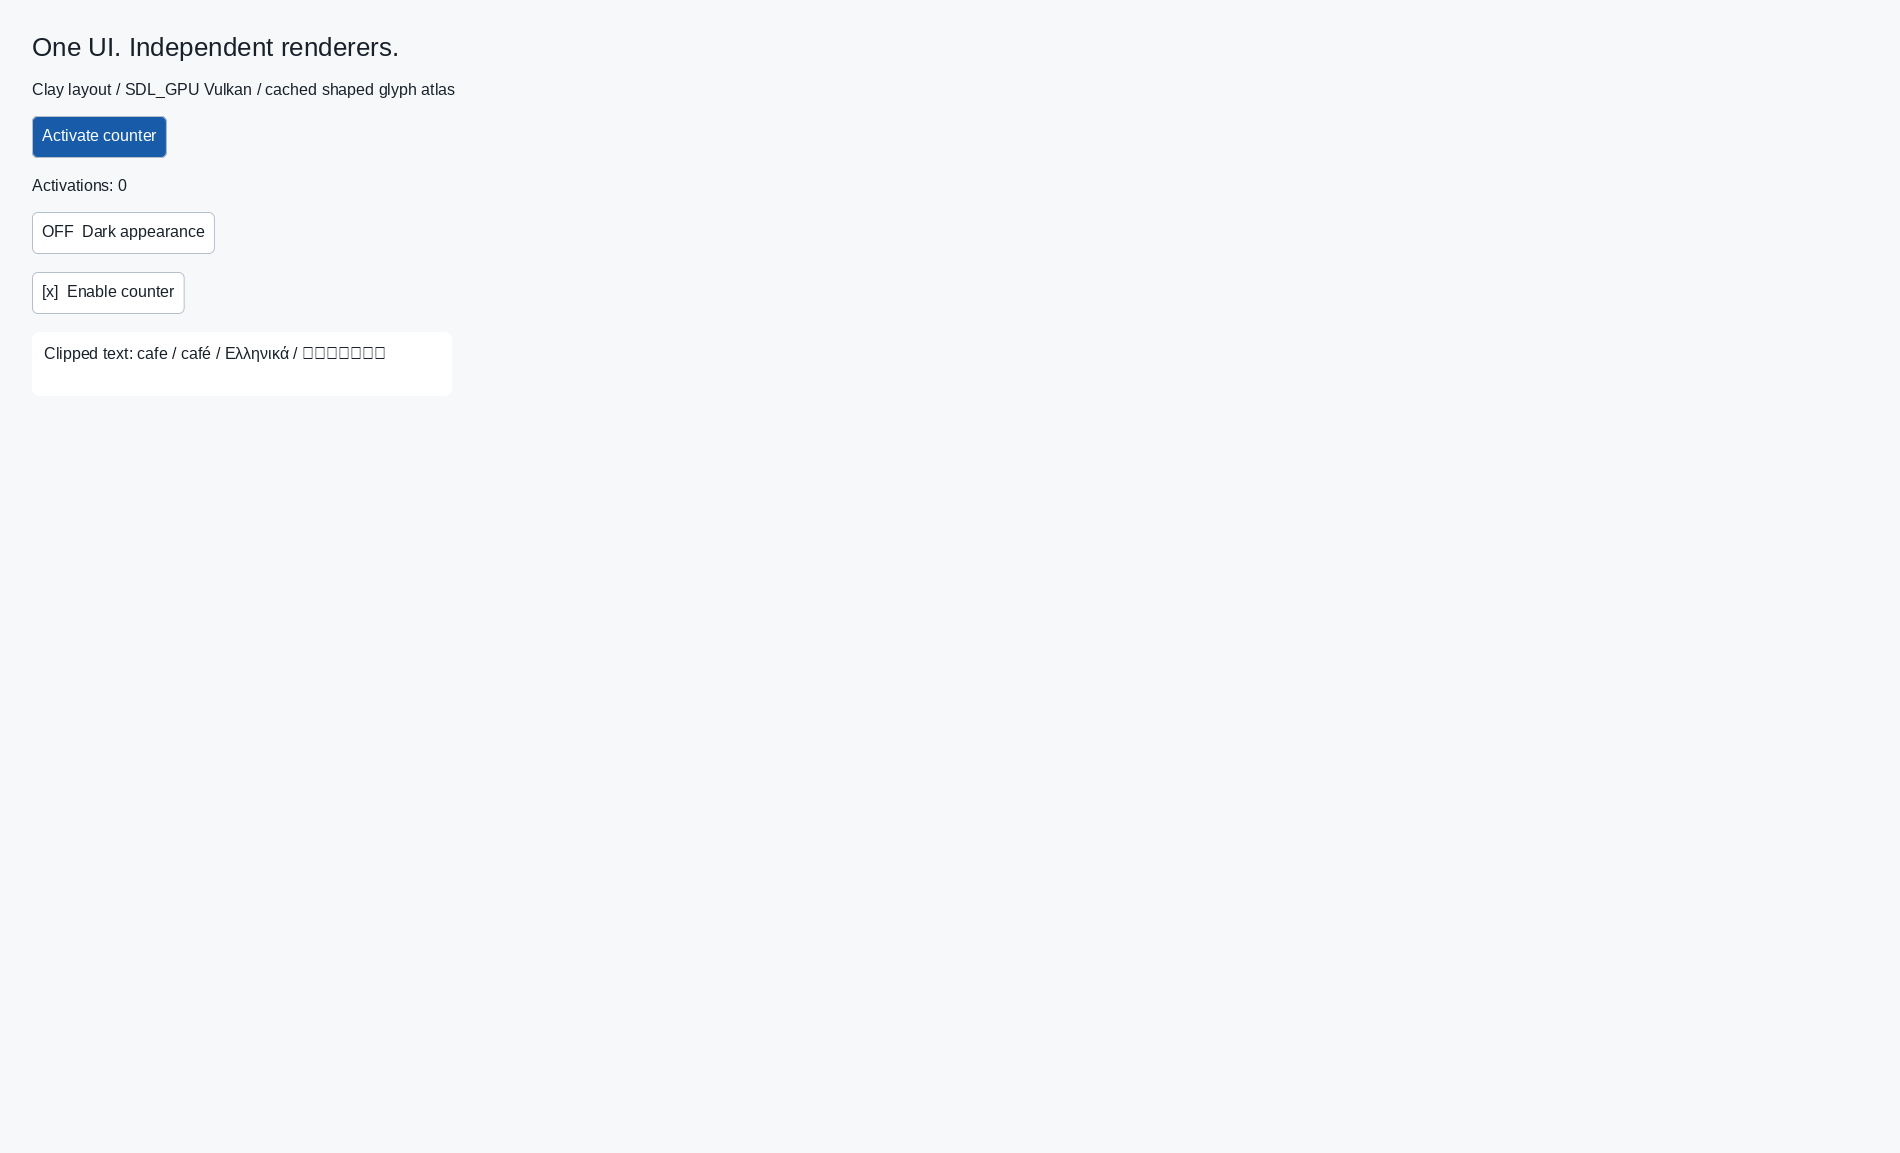
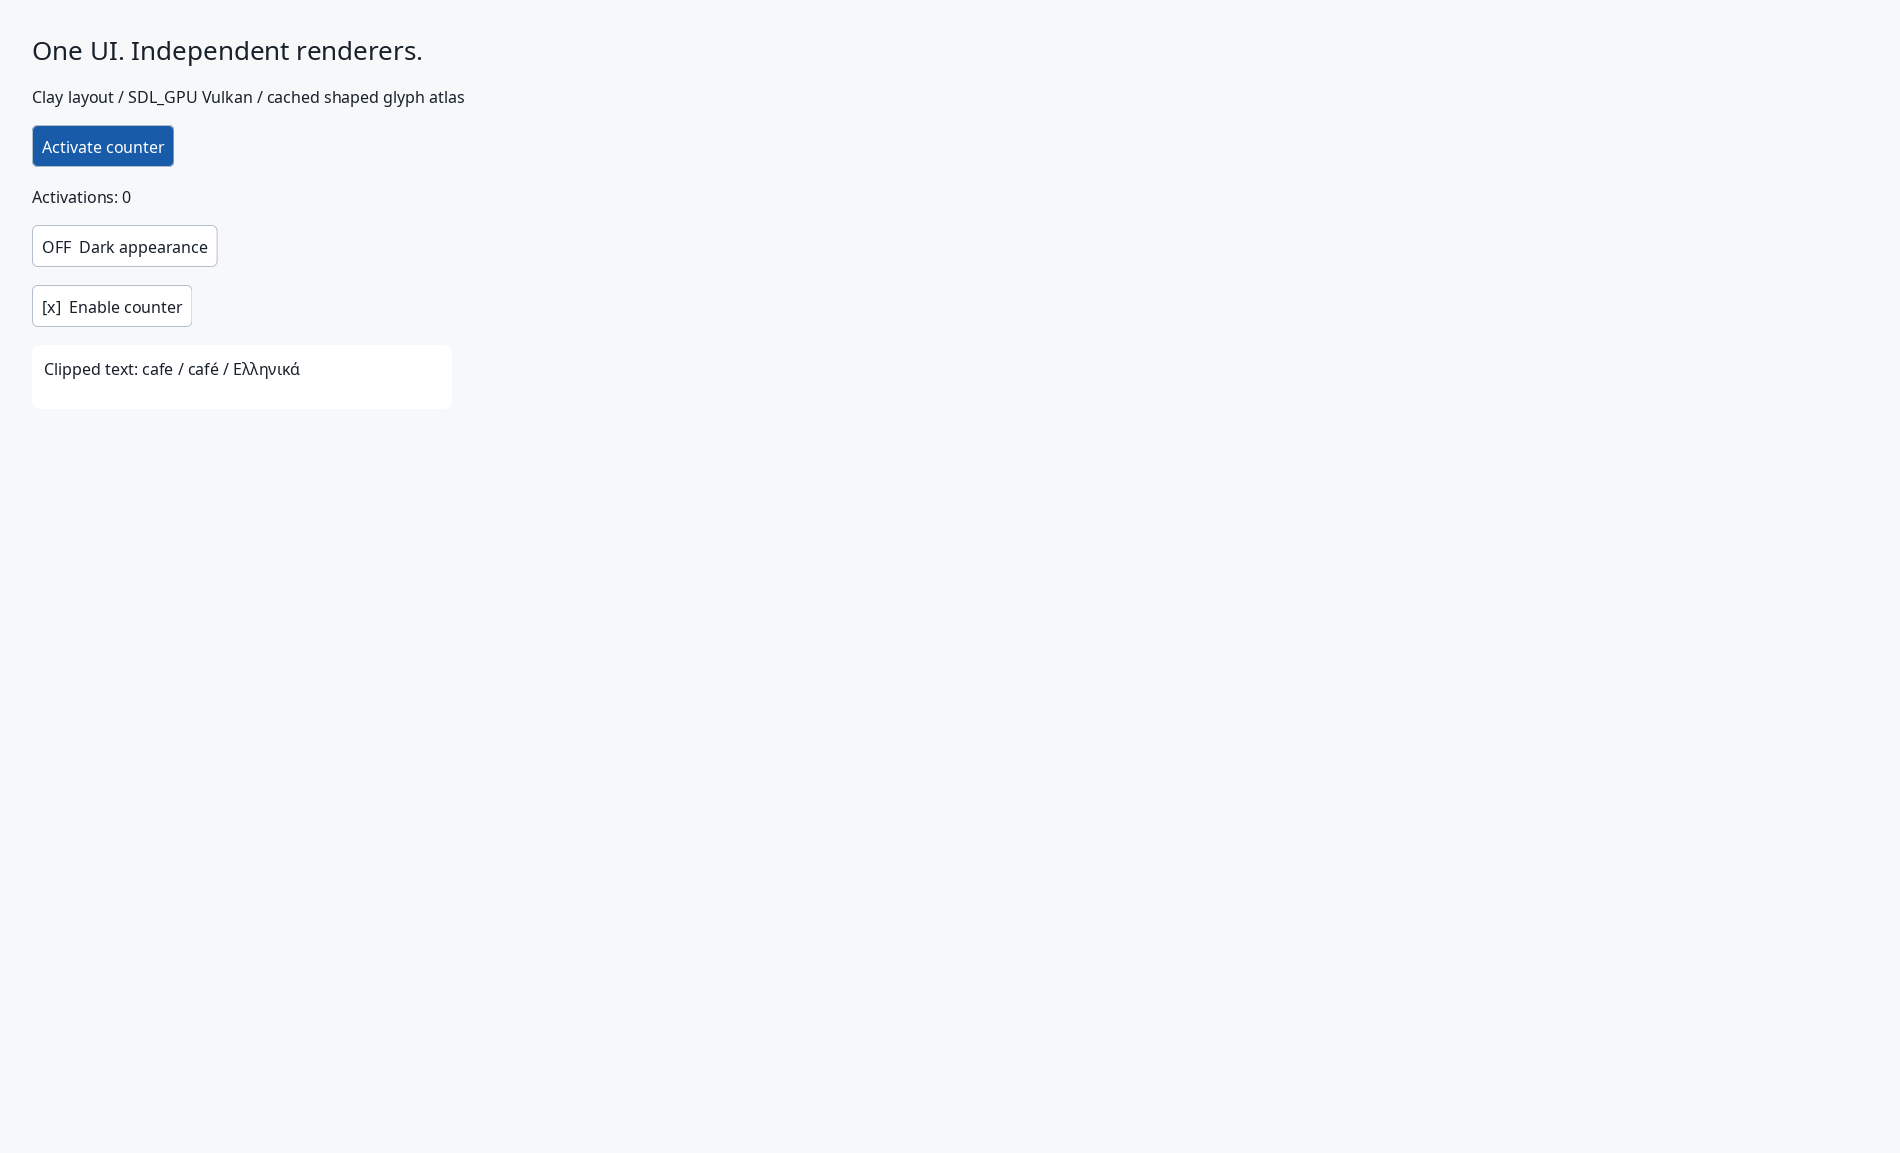
test: record portable runtime fixes and final local validation

Changed region(s): [[0.0, 0.0312, 0.2484, 0.3435]]

diff --git a/scripts/nightly_report.py b/scripts/nightly_report.py
@@ -9,20 +9,20 @@ sha=git('rev-parse','HEAD');branch=git('branch','--show-current')
 lines=['# Nightly report — live development checkpoint','',f'Repository: https://github.com/mattmezza/cui. Branch `{branch}`. Evidence/source commit before this report update: `{sha}`. Sources are on the safe integration branch; see push/CI notes below.','',
 '## Working architecture','',
 'Explicit C11 contexts, pinned Clay layout, stable scoped IDs, bounded frame strings, ordered previous-frame hit routing, capture/focus/modal scopes, independent semantics and draw lists. Unstyled controlled primitives feed theme-driven components. UTF-8 scalar editing with bounded undo/redo, retained keyed Fenwick virtualization, split/tab docking with transactional persistence and plot scales/clipped geometry are substantive headless models. Optional FreeType/HarfBuzz shapes runs. Software, SDL_Renderer compatibility, SDL_GPU Vulkan and independent Sokol GLCORE are separate renderers; actual hardware/runtime selection is reported.','',
-'GPUI Kit baseline0.7.1 commit87d10ae5e1299d1be18670a37570c5402f952e34; Clay e6cc36941ab2af5d81107617039d6f527a1c660b. See upstream-baseline.md and DECISIONS.md. Source code and generated one/few headers are tested independently.','',
+'GPUI Kit baseline 0.7.1 commit `87d10ae5e1299d1be18670a37570c5402f952e34`; Clay e6cc36941ab2af5d81107617039d6f527a1c660b. See upstream-baseline.md and DECISIONS.md. Source code and generated one/few headers are tested independently.','',
 '## Catalog counts','',
 '| Status | Families |','|---|---:|',*[f'| {s} | {counts[s]} |' for s in ['not_started','scaffolded','implemented','tested','verified']],'',
 'Every non-verified family remains incomplete; tested means only its documented subset has tests. **No full family is verified.** Full feature backlog: [gpui-parity.json](gpui-parity.json), [COMPONENTS.md](COMPONENTS.md).','',
 '## Validation evidence','',
 'Latest stored logs (each contains the actual test result, not assumed success):','',
 *[f'- [{p.name}](validation/{p.name})' for p in sorted((r/'docs/validation').glob('*.txt'))],'',
-'Commands: `cmake -S . -B build -G Ninja -DCUI_GPU_TESTS=ON`; `cmake --build build`; `ctest --test-dir build --output-on-failure`. ASan/UBSan config uses `-DCUI_SANITIZE=ON`; portable Clang21.1.8 is supplied by Zig0.16.0 with `-DCMAKE_LINK_DEPENDS_USE_LINKER=FALSE` to avoid a Zig/CMake linker dependency-file crash. This workaround is not required by ordinary GCC builds.','',
-'Linux Xorg actual runtime: SDL_Renderer OpenGL; SDL_GPU Vulkan reported Intel(R) Graphics (ARL), Intel open-source Mesa driver. Actual Vulkan and Sokol GLCORE pixel readback verifies nested clip/alpha/geometry; Sokol text cache/readback/eviction passed under ASan/UBSan. SDL dummy/software tests verify cache/clipboard/event service contracts; dummy is not OS platform evidence. C++ and Zig C-ABI consumer executables ran. Native font/cache tests require a discovered real font.','',
+'Commands: `cmake -S . -B build -G Ninja -DCUI_GPU_TESTS=ON`; `cmake --build build`; `ctest --test-dir build --output-on-failure`. ASan/UBSan config uses `-DCUI_SANITIZE=ON`; portable Clang 21.1.8 is supplied by Zig 0.16.0 with `-DCMAKE_LINK_DEPENDS_USE_LINKER=FALSE` to avoid a Zig/CMake linker dependency-file crash. This workaround is not required by ordinary GCC builds.','',
+'Linux Xorg actual runtime: SDL_Renderer OpenGL; SDL_GPU Vulkan reported Intel(R) Graphics (ARL), Intel open-source Mesa driver. Actual Vulkan and Sokol GLCORE pixel readback verifies nested clip/alpha/geometry; Sokol text cache/readback/eviction passed under ASan/UBSan. SDL dummy/software tests verify cache/clipboard/event service contracts; dummy is not OS platform evidence. C++ and Zig C-ABI consumer executables ran. Fifteen compiled wasm32-wasi behavioral/embedding modules ran in pinned Wasmtime; browser integration remains untested. Native font/cache tests require a discovered real font.','',
 '## Captures and performance','',
 'Actual generated frames are in [screenshots](screenshots/): light gallery, dark text preview, narrow values, tiny-window resize fallback SDL_GPU and Sokol. They are not borrowed upstream imagery. Fresh gallery review scored both material narrow/tiny fixes resolved; approval is bounded to the development gallery. No video captured.','',
-'CPU layout benchmark initial default unoptimized build on Intel Core Ultra5 235U/Arch/GCC16.2.1:500frames×100boxes,0.196ms/frame CPU clock,28000visible commands after culling. This excludes shaping/rendering and is not aGPUframe or competitor benchmark. Keyed virtualization measurements/workload/memory are in VIRTUALIZATION.md. Reproduce with `make bench` and `./build/test_virtual --benchmark`.','',
+'CPU layout benchmark initial default unoptimized build on Intel Core Ultra 5 235U/Arch/GCC 16.2.1:500 frames × 100 boxes, 0.196 ms/frame CPU clock, 28000 visible commands after culling. This excludes shaping/rendering and is not a GPU frame or competitor benchmark. Keyed virtualization measurements/workload/memory are in VIRTUALIZATION.md. Reproduce with `make bench` and `./build/test_virtual --benchmark`.','',
 '## Platform matrix','',
-'Linux Xorg and headless: tested partial. Wayland: untested. Windows/macOS: hosted portable C suites run; results and outstanding failures are in the platform matrix. Android/iOS/browser WASM: untested; WASI compilation is separate from browser integration. See [PLATFORM_MATRIX.md](PLATFORM_MATRIX.md) for current observed CI changes. SDL_GPU currently SPIR-V/Vulkan only; Metal/D3D shaders pending. Native screen-reader bridges absent.','',
+'Linux Xorg and headless: tested partial. Wayland: untested. Windows/macOS: hosted portable C suites run; results and outstanding failures are in the platform matrix. Android/iOS/browser WASM: untested; 15 actual Zig/Wasmtime headless WASI suites passed, separately from browser integration. See [PLATFORM_MATRIX.md](PLATFORM_MATRIX.md) for current observed CI changes. SDL_GPU currently SPIR-V/Vulkan only; Metal/D3D shaders pending. Native screen-reader bridges absent.','',
 '## Risks and next tasks','',
 '1. Input is a preview: scalar boundaries, no painted caret/selection/pointer placement, IME, clipboard editor path, graphemes, paragraph bidi or font fallback. Finish this usable foundation before claiming Editor.','2. Modal reducers/focus scopes and popup geometry are base-only; styled dialog/menu/select/combobox/portal semantics pending.','3. Virtualization is a real efficient keyed model, but a scroll/focus/widget layer and data table remain. Dock/advanced model progress must retain widget-level gaps.','4. Complete independent renderer/resource lifecycle/device-loss contracts, broader GPU shader formats, OS accessibility and native platform adapters.','5. Implement remaining catalog families against feature requirements, then add real stories/behavior/semantic/theme tests before verified status.','',
 'Licensing: original code MIT, Clay and Sokol zlib; optional renderer dependencies retain their own inventory/license. No GPUI code/runtime/branding copied. In-process capability checks would not be a security sandbox; no extension host yet.','',

diff --git a/dist/cui_plot.h b/dist/cui_plot.h
@@ -158,10 +158,14 @@ static long double cui_plot_tick_step(const cui_plot_scale *s, size_t desired) {
     if (power == 0)
         power = DBL_TRUE_MIN;
     long double normalized = raw / power;
-    long double step = power * (normalized <= 1   ? 1
-                                : normalized <= 2 ? 2
-                                : normalized <= 5 ? 5
-                                                  : 10);
+    /* log10l/powl and the span division can straddle an exact nice-step
+       threshold by a few arithmetic ulps. Do not double a nominal unit step
+       merely because one libm returns log10l(1000) just above 3. */
+    long double rounding = 1 + 8 * LDBL_EPSILON;
+    long double step = power * (normalized <= rounding       ? 1
+                                : normalized <= 2 * rounding ? 2
+                                : normalized <= 5 * rounding ? 5
+                                                             : 10);
     if (s->kind == CUI_PLOT_LINEAR) {
         double magnitude = fmax(fabs(s->domain_min), fabs(s->domain_max));
         double ulp = magnitude - nextafter(magnitude, 0);
@@ -183,13 +187,18 @@ cui_plot_result cui_plot_ticks(const cui_plot_scale *s, size_t desired, double *
     long double a = cui_plot_transform(s->kind, s->domain_min);
     long double b = cui_plot_transform(s->kind, s->domain_max);
     long double step = cui_plot_tick_step(s, desired);
-    long double first = ceill(a / step);
+    /* Inspect the adjacent grid index on each side: a transformed endpoint
+       can round across its exact index. Inclusion is decided below in the
+       original double domain, never by a tolerant out-of-domain comparison. */
+    long double first = ceill(a / step) - 1;
+    long double last = floorl(b / step) + 1;
     double values[CUI_PLOT_MAX_TICKS];
     size_t n = 0;
     for (size_t i = 0; i < CUI_PLOT_MAX_TICKS; ++i) {
-        long double tick = (first + i) * step;
-        if (tick > b)
+        long double index = first + i;
+        if (index > last)
             break;
+        long double tick = index * step;
         double value;
         status = cui_plot_untransform(s->kind, tick, &value);
         if (status != CUI_PLOT_OK)

diff --git a/README.md b/README.md
@@ -2,7 +2,7 @@
 
 An experimental C11 native UI framework: Clay layout, unstyled interaction primitives, themed controls, and independent renderer adapters. Embed it in an existing host or run the SDL3 workbench. No browser engine, JavaScript VM, Rust runtime, or platform types in the public core API.
 
-**Development snapshot, not production-ready or full GPUI Kit parity.** The complete78-family target is tracked in [the feature manifest](docs/gpui-parity.json). Working partial controls include buttons, checked/pressed selection, sliders and a UTF-8 scalar Input preview. Core focus/capture, semantic snapshots, bounded undo/redo, modal scopes, popup reducers, Gregorian geometry and keyed variable-height virtualization and a retained docking tree have behavioral tests. Native accessibility bridges, complete text editing/IME/bidi/fallback, full compound widgets and other platform runtimes remain pending.
+**Development snapshot, not production-ready or full GPUI Kit parity.** The complete 78-family target is tracked in [the feature manifest](docs/gpui-parity.json). Working partial controls include buttons, checked/pressed selection, sliders and a UTF-8 scalar Input preview. Core focus/capture, semantic snapshots, bounded undo/redo, modal scopes, popup reducers, Gregorian geometry and keyed variable-height virtualization and a retained docking tree have behavioral tests. Native accessibility bridges, complete text editing/IME/bidi/fallback, full compound widgets and other platform runtimes remain pending.
 
 ![Actual CUI software-rendered workbench](docs/screenshots/gallery-light.png)
 
@@ -49,7 +49,7 @@ void settings_frame(cui_context *ui, bool *notifications) {
 }
 ```
 
-Create/destroy the context in the host; queue input before begin. Width/height0 fit, negative grow, positive fix logical pixels. Stable scoped keys retain identity when lists reorder. Strings are copied to a bounded frame arena; returned draw/semantic pointers expire at the next begin. Read [API ownership](docs/API.md) and [the core contract](docs/CORE.md).
+Create/destroy the context in the host; queue input before begin. Width/height 0 fit, negative grow, positive fix logical pixels. Stable scoped keys retain identity when lists reorder. Strings are copied to a bounded frame arena; returned draw/semantic pointers expire at the next begin. Read [API ownership](docs/API.md) and [the core contract](docs/CORE.md).
 
 ## Header-only distribution
 
@@ -70,8 +70,8 @@ Other translation units include those headers without implementation macros. Bas
 
 ## Validation and scope
 
-`make check lint format-check dist-check`, `make bench`, and `make gallery` are available. Tests cover previous-frame ordered routing, nested capture/clips/focus scopes, Unicode scalar editing and history, randomized keyed virtualization, independent semantics, software pixels, shaped text, SDL cache/clipboard services, actual GPU readback, embedding, and gallery bounds. [Platform matrix](docs/PLATFORM_MATRIX.md) distinguishes runtime evidence from authored CI. Windows/macOS CI jobs are configured; their results are recorded when run.
+`make check lint format-check dist-check`, `make bench`, and `make gallery` are available. Tests cover previous-frame ordered routing, nested capture/clips/focus scopes, Unicode scalar editing and history, randomized keyed virtualization, independent semantics, software pixels, shaped text, SDL cache/clipboard services, actual GPU readback, embedding, and gallery bounds. [Platform matrix](docs/PLATFORM_MATRIX.md) distinguishes runtime evidence from authored CI. Windows/macOS portable CI jobs are configured; results and limitations are recorded in the matrix. Fifteen headless modules also run in a pinned [WASI runner](docs/WASI.md); this is separate from browser support.
 
 Read [the nightly report](docs/NIGHTLY_REPORT.md), [full component reference](docs/COMPONENTS.md), [architecture](docs/ARCHITECTURE.md), [component authoring](docs/COMPONENT_AUTHORING.md), and [remaining maintainer actions](docs/MAINTAINER_ACTIONS.md). All performance figures include workload context in [PERFORMANCE.md](docs/PERFORMANCE.md); none compare to other frameworks.
 
-Original CUI source is MIT. Vendored Clay and Sokol are zlib-licensed. GPUI Kit0.7.1 is a pinned functional reference, not linked or copied into the C runtime; see [upstream baseline](docs/upstream-baseline.md) and [dependency inventory](third_party/dependencies.json).
+Original CUI source is MIT. Vendored Clay and Sokol are zlib-licensed. GPUI Kit 0.7.1 is a pinned functional reference, not linked or copied into the C runtime; see [upstream baseline](docs/upstream-baseline.md) and [dependency inventory](third_party/dependencies.json).

diff --git a/docs/PLATFORM_MATRIX.md b/docs/PLATFORM_MATRIX.md
@@ -9,6 +9,6 @@
 | macOS | tested portable subset | Hosted Apple Clang core/software behavioral tests passed on CI run38185199059. Native GUI/Metal untested. |
 | Android | untested | No wrapper/device validation. |
 | iOS | untested | No wrapper/simulator/device validation/signing. |
-| WASM/WASI | compiled only | Zig0.16 cross-compiled the core/bootstrap test to wasm32-wasi. No WASI runtime or browser-host test. |
+| WASM/WASI | tested headless WASI subset | Zig0.16/Wasmtime49:15 portable behavioral/embedding suites compiled and ran. Browser-host integration untested; see [WASI.md](WASI.md). |
 
 Optional unavailable integrations are explicit. Compilation will be recorded separately from runtime tests. SDL_GPU SPIR-V shader support currently confines that adapter to Vulkan-capable devices; D3D12/Metal formats are pending. Sokol GLCORE is tested on Linux Xorg; its other backends and platforms are pending.
